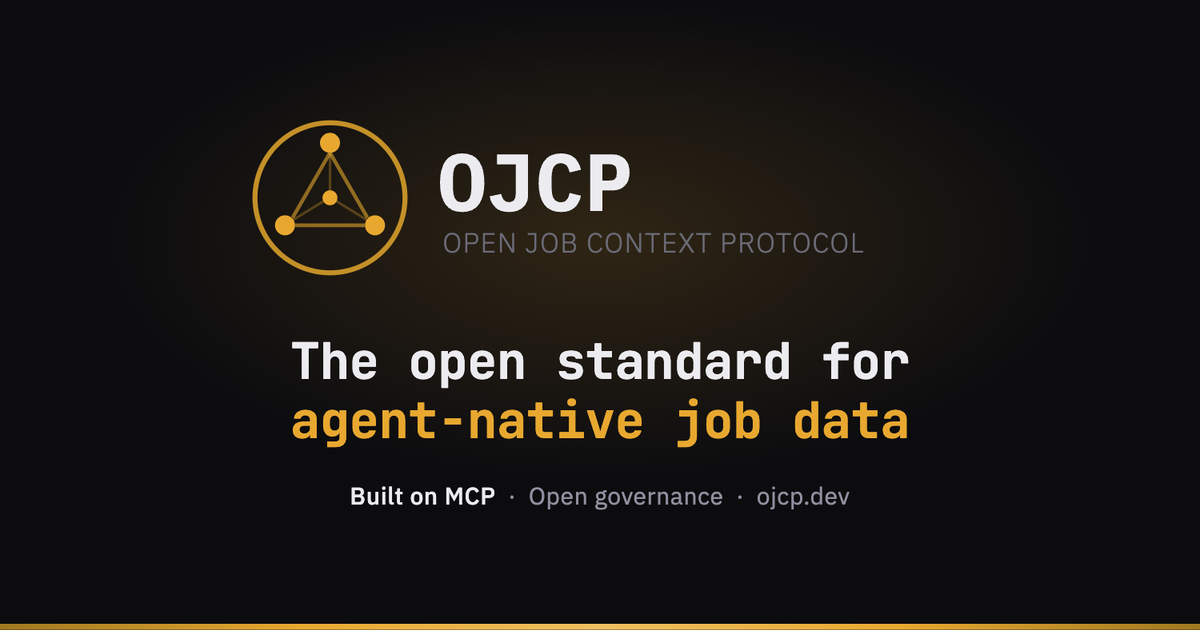
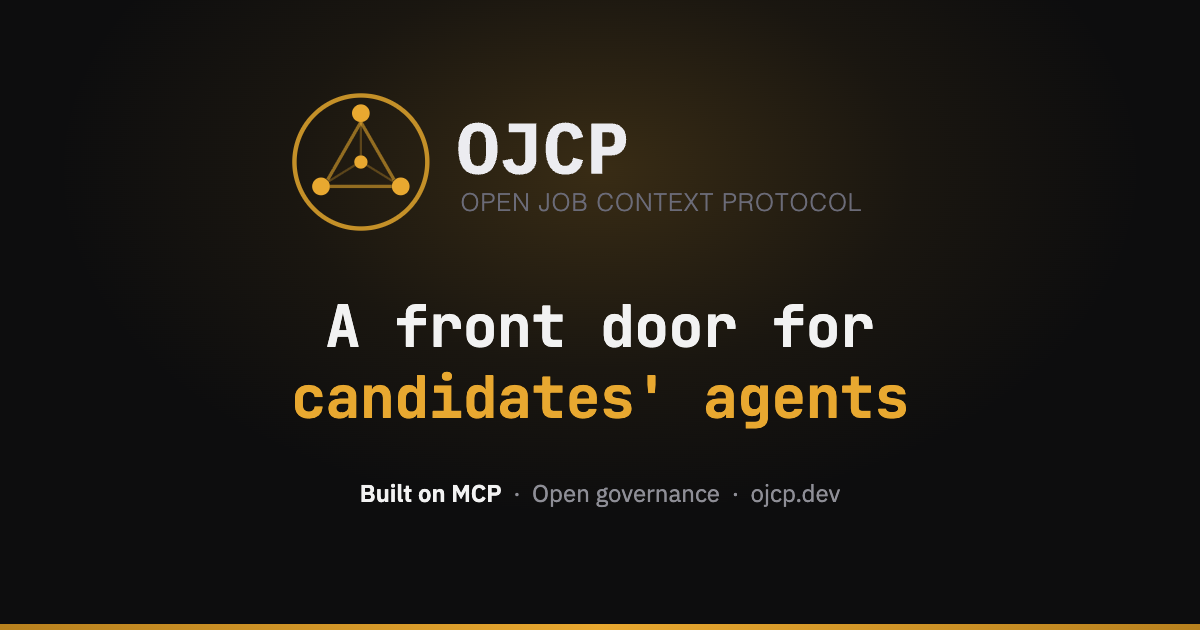
feat: lead with "a front door for candidates' agents"
The hero said "the open standard for agent-native job data", which
describes the mechanism rather than the problem. It now leads with what
OJCP is for, matching how it's pitched: a front door for candidates'
agents, under rules the employer controls, with verified agent identity,
person-approved applications and attribution.

The site description and the Open Graph / X card carry the same line.
The typewriter animation is removed: the headline reads better whole.

diff --git a/src/components/Hero.tsx b/src/components/Hero.tsx
@@ -11,56 +11,13 @@ import {
   Stack,
   Badge,
 } from "@mantine/core";
-import { motion, useMotionValue, useTransform, animate } from "motion/react";
-import { useEffect, useState } from "react";
+import { motion } from "motion/react";
 import { IconArrowRight, IconBrandGithub } from "@tabler/icons-react";
 import { specRepo, repoHostLabel } from "@/lib/repo-urls";
 import { OJCP_VERSION } from "@/lib/site";
 import classes from "./Hero.module.css";
 
-const TYPED_TEXT = "agent-native job data";
-
-function TypeWriter({ onDone }: { onDone: () => void }) {
-  const count = useMotionValue(0);
-  const rounded = useTransform(count, (v) => Math.round(v));
-  const [displayed, setDisplayed] = useState("");
-  const [hideCursor, setHideCursor] = useState(false);
-
-  useEffect(() => {
-    const controls = animate(count, TYPED_TEXT.length, {
-      duration: TYPED_TEXT.length * 0.06,
-      ease: "linear",
-      onComplete: () => {
-        onDone();
-        // Keep cursor visible briefly, then fade it
-        setTimeout(() => setHideCursor(true), 600);
-      },
-    });
-    return () => controls.stop();
-  }, []); // eslint-disable-line react-hooks/exhaustive-deps
-
-  useEffect(() => {
-    return rounded.on("change", (v) => {
-      setDisplayed(TYPED_TEXT.slice(0, v));
-    });
-  }, [rounded]);
-
-  return (
-    <>
-      {displayed}
-      <span
-        className={classes.cursor}
-        style={{ opacity: hideCursor ? 0 : 1, transition: "opacity 0.3s" }}
-      >
-        |
-      </span>
-    </>
-  );
-}
-
 export function Hero() {
-  const [typingDone, setTypingDone] = useState(false);
-
   return (
     <section className={classes.root} id="hero">
       <div className={classes.glow} />
@@ -96,24 +53,23 @@ export function Hero() {
           </motion.div>
 
           <Title order={1} className={classes.title} ta="center">
-            The open standard for
+            A front door for
             <br />
-            <span className={classes.highlight}>
-              <TypeWriter onDone={() => setTypingDone(true)} />
-            </span>
+            <span className={classes.highlight}>candidates&apos; agents</span>
           </Title>
 
           <motion.div
             initial={{ opacity: 0, y: 12 }}
-            animate={typingDone ? { opacity: 1, y: 0 } : {}}
-            transition={{ duration: 0.6, ease: "easeOut" }}
-            style={{ opacity: 0 }}
+            animate={{ opacity: 1, y: 0 }}
+            transition={{ duration: 0.6, delay: 0.4, ease: "easeOut" }}
           >
             <Stack align="center" gap="xl">
               <Text className={classes.subtitle} ta="center" maw={640}>
-                OJCP defines how AI agents discover, reason over, and act on
-                job opportunities. Built on MCP. Interoperable with schema.org.
-                Governed by an{" "}
+                OJCP is the open standard for how AI agents search, read and
+                apply to jobs, under rules the employer controls: verified
+                agent identity, applications a person actually approved, and
+                credit for whichever agent sent them. Built on MCP. Governed by
+                an{" "}
                 <Anchor
                   href="/governance"
                   c="var(--ojcp-gold)"
@@ -121,7 +77,7 @@ export function Hero() {
                 >
                   independent steering committee
                 </Anchor>
-                , and designed to compose with the broader agentic web.
+                .
               </Text>
 
               <Group gap="md" mt="sm" className={classes.buttons}>

diff --git a/src/lib/seo.ts b/src/lib/seo.ts
@@ -4,7 +4,7 @@ import { SITE_URL } from "@/lib/site";
 export const SITE_NAME = "OJCP";
 export const SITE_TITLE = "OJCP — Open Job Context Protocol";
 export const SITE_DESCRIPTION =
-  "OJCP is the open standard for agent-native job data: MCP tools and schemas that let AI agents search, evaluate, and apply to jobs.";
+  "A front door for candidates' agents: OJCP is the open standard for how AI agents search, read and apply to jobs, under rules the employer controls.";
 
 /**
  * Per-page metadata for search and link previews. Each page needs its own canonical URL and

diff --git a/src/components/Hero.module.css b/src/components/Hero.module.css
@@ -90,14 +90,3 @@
 .cta {
   font-weight: 600;
 }
-
-.cursor {
-  display: inline;
-  font-weight: 400;
-  animation: blink 0.6s step-end infinite;
-}
-
-@keyframes blink {
-  0%, 100% { opacity: 1; }
-  50% { opacity: 0; }
-}
